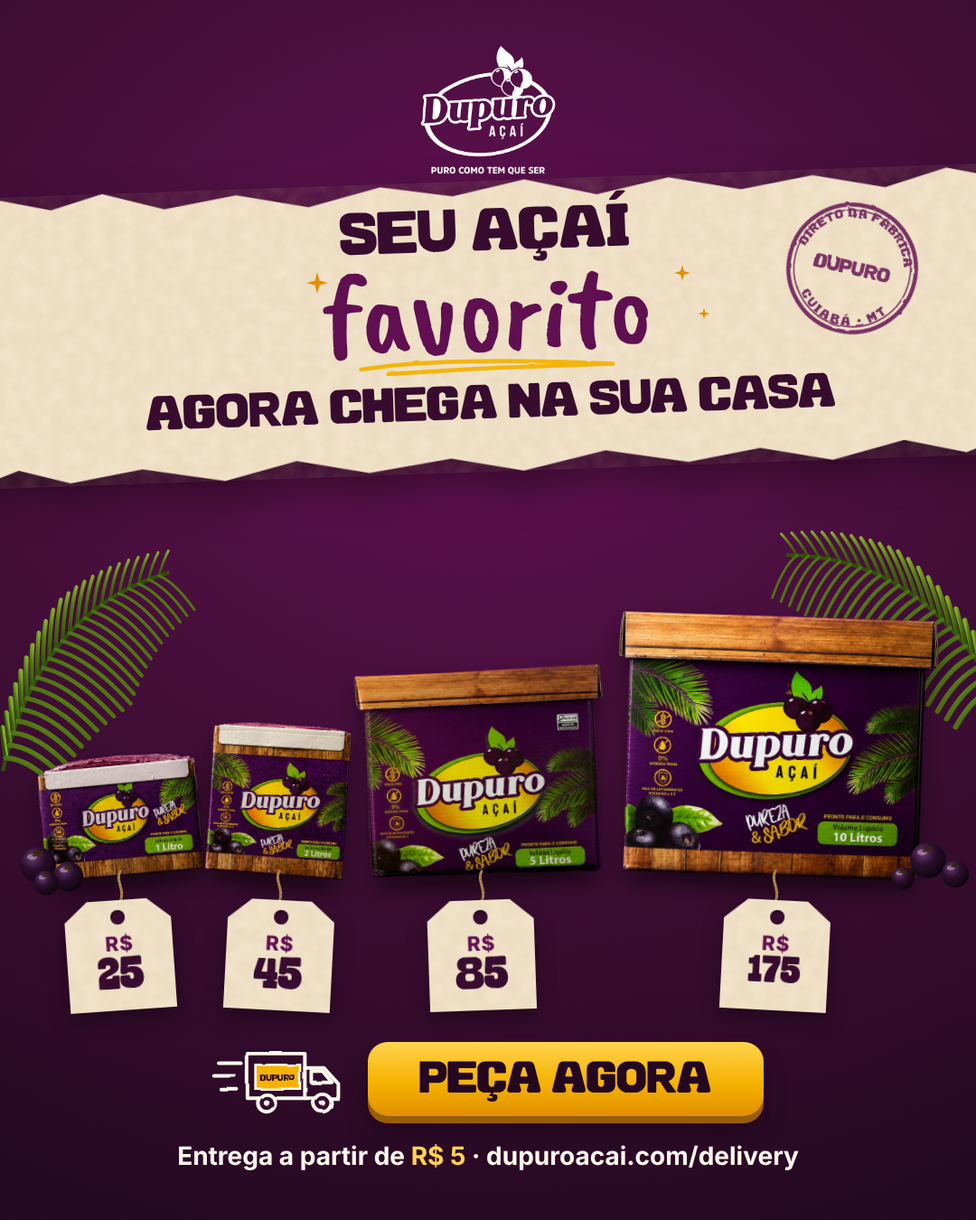
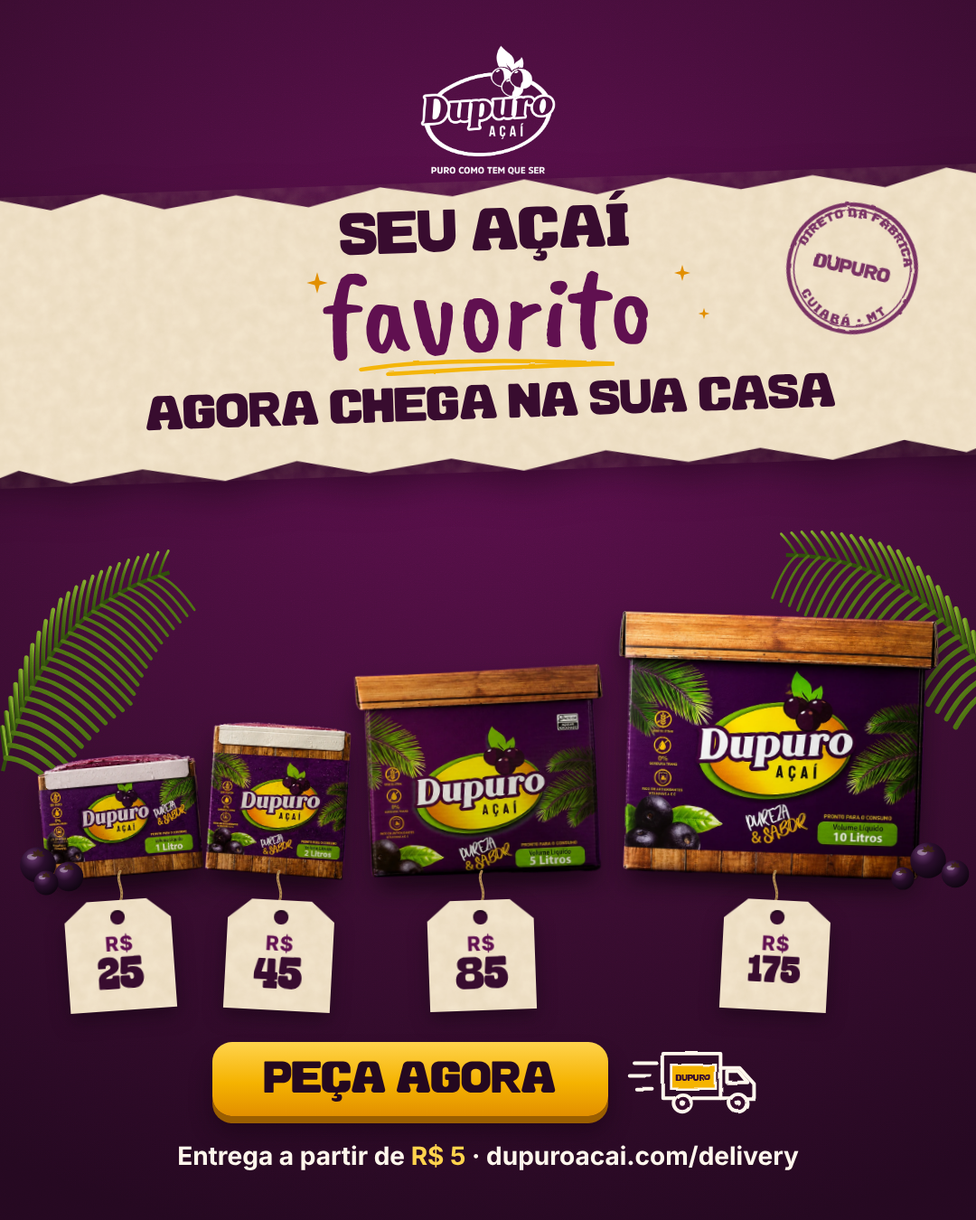
Anúncio v2: caminhãozinho à direita do 'Peça agora' (pediu, o caminhão sai)
Claude-Session: https://claude.ai/code/session_01FD3K2dUiQKyTzg2suxj9tU

Changed region(s): [[0.2139, 0.84, 0.7944, 0.9333]]

diff --git a/marketing/anuncios/delivery-v2/story.html b/marketing/anuncios/delivery-v2/story.html
@@ -20,7 +20,7 @@
  </g></svg>
 <svg class="folha" style="left:-30px;top:880px;width:340px;height:340px;transform:rotate(-8deg) scaleX(1)" viewBox="-20 -20 300 300"><defs><linearGradient id="gf" x1="0" y1="1" x2="1" y2="0"><stop offset="0" stop-color="#2F4A0C"/><stop offset=".55" stop-color="#4D7012"/><stop offset="1" stop-color="#7FA82B"/></linearGradient></defs><path d="M0,200 Q60,40 200,20" stroke="#2F4A0C" stroke-width="4" fill="none"/><path d="M5.1,186.9 Q5.5,166.6 5.8,155.4" stroke="url(#gf)" stroke-width="5.4" fill="none" stroke-linecap="round"/><path d="M5.1,186.9 Q27.8,191.5 50.5,221.2" stroke="url(#gf)" stroke-width="5.4" fill="none" stroke-linecap="round"/><path d="M10.6,174.3 Q11.3,152.4 12.1,140.7" stroke="url(#gf)" stroke-width="5.2" fill="none" stroke-linecap="round"/><path d="M10.6,174.3 Q34.6,179.9 58.7,211.5" stroke="url(#gf)" stroke-width="5.2" fill="none" stroke-linecap="round"/><path d="M16.2,162.2 Q17.4,138.7 18.6,126.5" stroke="url(#gf)" stroke-width="5.1" fill="none" stroke-linecap="round"/><path d="M16.2,162.2 Q41.6,168.7 67.0,202.5" stroke="url(#gf)" stroke-width="5.1" fill="none" stroke-linecap="round"/><path d="M22.2,150.6 Q23.9,125.5 25.6,112.8" stroke="url(#gf)" stroke-width="5.0" fill="none" stroke-linecap="round"/><path d="M22.2,150.6 Q48.9,158.1 75.6,194.0" stroke="url(#gf)" stroke-width="5.0" fill="none" stroke-linecap="round"/><path d="M28.5,139.4 Q30.7,112.8 32.9,99.7" stroke="url(#gf)" stroke-width="4.9" fill="none" stroke-linecap="round"/><path d="M28.5,139.4 Q56.5,148.0 84.5,186.0" stroke="url(#gf)" stroke-width="4.9" fill="none" stroke-linecap="round"/><path d="M35.0,128.8 Q37.8,100.6 40.6,87.0" stroke="url(#gf)" stroke-width="4.8" fill="none" stroke-linecap="round"/><path d="M35.0,128.8 Q64.3,138.4 93.5,178.7" stroke="url(#gf)" stroke-width="4.8" fill="none" stroke-linecap="round"/><path d="M41.8,118.6 Q45.3,88.8 48.7,74.9" stroke="url(#gf)" stroke-width="4.6" fill="none" stroke-linecap="round"/><path d="M41.8,118.6 Q72.3,129.4 102.8,171.9" stroke="url(#gf)" stroke-width="4.6" fill="none" stroke-linecap="round"/><path d="M48.9,108.9 Q53.0,77.6 57.1,63.2" stroke="url(#gf)" stroke-width="4.5" fill="none" stroke-linecap="round"/><path d="M48.9,108.9 Q80.6,120.8 112.4,165.6" stroke="url(#gf)" stroke-width="4.5" fill="none" stroke-linecap="round"/><path d="M56.2,99.7 Q61.1,66.9 65.9,52.1" stroke="url(#gf)" stroke-width="4.4" fill="none" stroke-linecap="round"/><path d="M56.2,99.7 Q89.2,112.8 122.1,159.9" stroke="url(#gf)" stroke-width="4.4" fill="none" stroke-linecap="round"/><path d="M63.9,91.0 Q69.5,56.7 75.1,41.5" stroke="url(#gf)" stroke-width="4.2" fill="none" stroke-linecap="round"/><path d="M63.9,91.0 Q98.0,105.3 132.0,154.8" stroke="url(#gf)" stroke-width="4.2" fill="none" stroke-linecap="round"/><path d="M71.8,82.7 Q78.1,47.6 84.4,32.2" stroke="url(#gf)" stroke-width="4.1" fill="none" stroke-linecap="round"/><path d="M71.8,82.7 Q106.5,98.1 141.1,149.2" stroke="url(#gf)" stroke-width="4.1" fill="none" stroke-linecap="round"/><path d="M80.0,75.0 Q86.6,41.5 93.2,26.7" stroke="url(#gf)" stroke-width="4.0" fill="none" stroke-linecap="round"/><path d="M80.0,75.0 Q113.0,90.0 145.9,139.7" stroke="url(#gf)" stroke-width="4.0" fill="none" stroke-linecap="round"/><path d="M88.5,67.7 Q95.3,35.9 102.2,21.6" stroke="url(#gf)" stroke-width="3.9" fill="none" stroke-linecap="round"/><path d="M88.5,67.7 Q119.8,82.4 151.1,130.7" stroke="url(#gf)" stroke-width="3.9" fill="none" stroke-linecap="round"/><path d="M97.2,61.0 Q104.3,30.8 111.3,17.1" stroke="url(#gf)" stroke-width="3.8" fill="none" stroke-linecap="round"/><path d="M97.2,61.0 Q126.9,75.3 156.6,122.0" stroke="url(#gf)" stroke-width="3.8" fill="none" stroke-linecap="round"/><path d="M106.2,54.7 Q113.4,26.2 120.6,13.0" stroke="url(#gf)" stroke-width="3.6" fill="none" stroke-linecap="round"/><path d="M106.2,54.7 Q134.3,68.6 162.4,113.7" stroke="url(#gf)" stroke-width="3.6" fill="none" stroke-linecap="round"/><path d="M115.6,48.9 Q122.9,22.1 130.2,9.4" stroke="url(#gf)" stroke-width="3.5" fill="none" stroke-linecap="round"/><path d="M115.6,48.9 Q142.0,62.3 168.5,105.8" stroke="url(#gf)" stroke-width="3.5" fill="none" stroke-linecap="round"/><path d="M125.1,43.6 Q132.5,18.4 139.9,6.3" stroke="url(#gf)" stroke-width="3.4" fill="none" stroke-linecap="round"/><path d="M125.1,43.6 Q150.0,56.5 174.9,98.4" stroke="url(#gf)" stroke-width="3.4" fill="none" stroke-linecap="round"/><path d="M135.0,38.8 Q142.4,15.3 149.7,3.7" stroke="url(#gf)" stroke-width="3.2" fill="none" stroke-linecap="round"/><path d="M135.0,38.8 Q158.3,51.1 181.6,91.3" stroke="url(#gf)" stroke-width="3.2" fill="none" stroke-linecap="round"/><path d="M145.1,34.4 Q152.5,12.6 159.8,1.5" stroke="url(#gf)" stroke-width="3.1" fill="none" stroke-linecap="round"/><path d="M145.1,34.4 Q166.9,46.1 188.7,84.6" stroke="url(#gf)" stroke-width="3.1" fill="none" stroke-linecap="round"/><path d="M155.6,30.6 Q162.8,10.4 170.0,-0.1" stroke="url(#gf)" stroke-width="3.0" fill="none" stroke-linecap="round"/><path d="M155.6,30.6 Q175.8,41.6 196.0,78.4" stroke="url(#gf)" stroke-width="3.0" fill="none" stroke-linecap="round"/><path d="M166.2,27.2 Q173.4,8.6 180.5,-1.4" stroke="url(#gf)" stroke-width="2.9" fill="none" stroke-linecap="round"/><path d="M166.2,27.2 Q185.0,37.6 203.8,72.5" stroke="url(#gf)" stroke-width="2.9" fill="none" stroke-linecap="round"/><path d="M177.2,24.3 Q184.2,7.4 191.1,-2.1" stroke="url(#gf)" stroke-width="2.8" fill="none" stroke-linecap="round"/><path d="M177.2,24.3 Q194.5,34.0 211.8,67.1" stroke="url(#gf)" stroke-width="2.8" fill="none" stroke-linecap="round"/><path d="M188.5,21.9 Q195.2,6.6 201.9,-2.4" stroke="url(#gf)" stroke-width="2.6" fill="none" stroke-linecap="round"/><path d="M188.5,21.9 Q204.3,30.8 220.2,62.0" stroke="url(#gf)" stroke-width="2.6" fill="none" stroke-linecap="round"/></svg><svg class="folha" style="left:780px;top:840px;width:340px;height:340px;transform:rotate(-8deg) scaleX(-1)" viewBox="-20 -20 300 300"><defs><linearGradient id="gf" x1="0" y1="1" x2="1" y2="0"><stop offset="0" stop-color="#2F4A0C"/><stop offset=".55" stop-color="#4D7012"/><stop offset="1" stop-color="#7FA82B"/></linearGradient></defs><path d="M0,200 Q60,40 200,20" stroke="#2F4A0C" stroke-width="4" fill="none"/><path d="M5.1,186.9 Q5.5,166.6 5.8,155.4" stroke="url(#gf)" stroke-width="5.4" fill="none" stroke-linecap="round"/><path d="M5.1,186.9 Q27.8,191.5 50.5,221.2" stroke="url(#gf)" stroke-width="5.4" fill="none" stroke-linecap="round"/><path d="M10.6,174.3 Q11.3,152.4 12.1,140.7" stroke="url(#gf)" stroke-width="5.2" fill="none" stroke-linecap="round"/><path d="M10.6,174.3 Q34.6,179.9 58.7,211.5" stroke="url(#gf)" stroke-width="5.2" fill="none" stroke-linecap="round"/><path d="M16.2,162.2 Q17.4,138.7 18.6,126.5" stroke="url(#gf)" stroke-width="5.1" fill="none" stroke-linecap="round"/><path d="M16.2,162.2 Q41.6,168.7 67.0,202.5" stroke="url(#gf)" stroke-width="5.1" fill="none" stroke-linecap="round"/><path d="M22.2,150.6 Q23.9,125.5 25.6,112.8" stroke="url(#gf)" stroke-width="5.0" fill="none" stroke-linecap="round"/><path d="M22.2,150.6 Q48.9,158.1 75.6,194.0" stroke="url(#gf)" stroke-width="5.0" fill="none" stroke-linecap="round"/><path d="M28.5,139.4 Q30.7,112.8 32.9,99.7" stroke="url(#gf)" stroke-width="4.9" fill="none" stroke-linecap="round"/><path d="M28.5,139.4 Q56.5,148.0 84.5,186.0" stroke="url(#gf)" stroke-width="4.9" fill="none" stroke-linecap="round"/><path d="M35.0,128.8 Q37.8,100.6 40.6,87.0" stroke="url(#gf)" stroke-width="4.8" fill="none" stroke-linecap="round"/><path d="M35.0,128.8 Q64.3,138.4 93.5,178.7" stroke="url(#gf)" stroke-width="4.8" fill="none" stroke-linecap="round"/><path d="M41.8,118.6 Q45.3,88.8 48.7,74.9" stroke="url(#gf)" stroke-width="4.6" fill="none" stroke-linecap="round"/><path d="M41.8,118.6 Q72.3,129.4 102.8,171.9" stroke="url(#gf)" stroke-width="4.6" fill="none" stroke-linecap="round"/><path d="M48.9,108.9 Q53.0,77.6 57.1,63.2" stroke="url(#gf)" stroke-width="4.5" fill="none" stroke-linecap="round"/><path d="M48.9,108.9 Q80.6,120.8 112.4,165.6" stroke="url(#gf)" stroke-width="4.5" fill="none" stroke-linecap="round"/><path d="M56.2,99.7 Q61.1,66.9 65.9,52.1" stroke="url(#gf)" stroke-width="4.4" fill="none" stroke-linecap="round"/><path d="M56.2,99.7 Q89.2,112.8 122.1,159.9" stroke="url(#gf)" stroke-width="4.4" fill="none" stroke-linecap="round"/><path d="M63.9,91.0 Q69.5,56.7 75.1,41.5" stroke="url(#gf)" stroke-width="4.2" fill="none" stroke-linecap="round"/><path d="M63.9,91.0 Q98.0,105.3 132.0,154.8" stroke="url(#gf)" stroke-width="4.2" fill="none" stroke-linecap="round"/><path d="M71.8,82.7 Q78.1,47.6 84.4,32.2" stroke="url(#gf)" stroke-width="4.1" fill="none" stroke-linecap="round"/><path d="M71.8,82.7 Q106.5,98.1 141.1,149.2" stroke="url(#gf)" stroke-width="4.1" fill="none" stroke-linecap="round"/><path d="M80.0,75.0 Q86.6,41.5 93.2,26.7" stroke="url(#gf)" stroke-width="4.0" fill="none" stroke-linecap="round"/><path d="M80.0,75.0 Q113.0,90.0 145.9,139.7" stroke="url(#gf)" stroke-width="4.0" fill="none" stroke-linecap="round"/><path d="M88.5,67.7 Q95.3,35.9 102.2,21.6" stroke="url(#gf)" stroke-width="3.9" fill="none" stroke-linecap="round"/><path d="M88.5,67.7 Q119.8,82.4 151.1,130.7" stroke="url(#gf)" stroke-width="3.9" fill="none" stroke-linecap="round"/><path d="M97.2,61.0 Q104.3,30.8 111.3,17.1" stroke="url(#gf)" stroke-width="3.8" fill="none" stroke-linecap="round"/><path d="M97.2,61.0 Q126.9,75.3 156.6,122.0" stroke="url(#gf)" stroke-width="3.8" fill="none" stroke-linecap="round"/><path d="M106.2,54.7 Q113.4,26.2 120.6,13.0" stroke="url(#gf)" stroke-width="3.6" fill="none" stroke-linecap="round"/><path d="M106.2,54.7 Q134.3,68.6 162.4,113.7" stroke="url(#gf)" stroke-width="3.6" fill="none" stroke-linecap="round"/><path d="M115.6,48.9 Q122.9,22.1 130.2,9.4" stroke="url(#gf)" stroke-width="3.5" fill="none" stroke-linecap="round"/><path d="M115.6,48.9 Q142.0,62.3 168.5,105.8" stroke="url(#gf)" stroke-width="3.5" fill="none" stroke-linecap="round"/><path d="M125.1,43.6 Q132.5,18.4 139.9,6.3" stroke="url(#gf)" stroke-width="3.4" fill="none" stroke-linecap="round"/><path d="M125.1,43.6 Q150.0,56.5 174.9,98.4" stroke="url(#gf)" stroke-width="3.4" fill="none" stroke-linecap="round"/><path d="M135.0,38.8 Q142.4,15.3 149.7,3.7" stroke="url(#gf)" stroke-width="3.2" fill="none" stroke-linecap="round"/><path d="M135.0,38.8 Q158.3,51.1 181.6,91.3" stroke="url(#gf)" stroke-width="3.2" fill="none" stroke-linecap="round"/><path d="M145.1,34.4 Q152.5,12.6 159.8,1.5" stroke="url(#gf)" stroke-width="3.1" fill="none" stroke-linecap="round"/><path d="M145.1,34.4 Q166.9,46.1 188.7,84.6" stroke="url(#gf)" stroke-width="3.1" fill="none" stroke-linecap="round"/><path d="M155.6,30.6 Q162.8,10.4 170.0,-0.1" stroke="url(#gf)" stroke-width="3.0" fill="none" stroke-linecap="round"/><path d="M155.6,30.6 Q175.8,41.6 196.0,78.4" stroke="url(#gf)" stroke-width="3.0" fill="none" stroke-linecap="round"/><path d="M166.2,27.2 Q173.4,8.6 180.5,-1.4" stroke="url(#gf)" stroke-width="2.9" fill="none" stroke-linecap="round"/><path d="M166.2,27.2 Q185.0,37.6 203.8,72.5" stroke="url(#gf)" stroke-width="2.9" fill="none" stroke-linecap="round"/><path d="M177.2,24.3 Q184.2,7.4 191.1,-2.1" stroke="url(#gf)" stroke-width="2.8" fill="none" stroke-linecap="round"/><path d="M177.2,24.3 Q194.5,34.0 211.8,67.1" stroke="url(#gf)" stroke-width="2.8" fill="none" stroke-linecap="round"/><path d="M188.5,21.9 Q195.2,6.6 201.9,-2.4" stroke="url(#gf)" stroke-width="2.6" fill="none" stroke-linecap="round"/><path d="M188.5,21.9 Q204.3,30.8 220.2,62.0" stroke="url(#gf)" stroke-width="2.6" fill="none" stroke-linecap="round"/></svg><svg class="fruto" style="left:20px;top:1215px;width:44px;height:44px" viewBox="0 0 40 40"><defs><radialGradient id="gb" cx=".35" cy=".3" r=".75"><stop offset="0" stop-color="#6B3A72"/><stop offset=".45" stop-color="#2A0E2C"/><stop offset="1" stop-color="#0E040F"/></radialGradient></defs><circle cx="20" cy="20" r="18" fill="url(#gb)"/><ellipse cx="14" cy="12" rx="5" ry="3" fill="#fff" opacity=".35"/><path d="M20,4 l2,3 l3,-1 l-1,3 l3,2 l-4,1 l-3,-1 l-3,1 l-4,-1 l3,-2 l-1,-3 l3,1 z" fill="#3B2410" opacity=".85"/></svg><svg class="fruto" style="left:58px;top:1232px;width:36px;height:36px" viewBox="0 0 40 40"><defs><radialGradient id="gb" cx=".35" cy=".3" r=".75"><stop offset="0" stop-color="#6B3A72"/><stop offset=".45" stop-color="#2A0E2C"/><stop offset="1" stop-color="#0E040F"/></radialGradient></defs><circle cx="20" cy="20" r="18" fill="url(#gb)"/><ellipse cx="14" cy="12" rx="5" ry="3" fill="#fff" opacity=".35"/><path d="M20,4 l2,3 l3,-1 l-1,3 l3,2 l-4,1 l-3,-1 l-3,1 l-4,-1 l3,-2 l-1,-3 l3,1 z" fill="#3B2410" opacity=".85"/></svg><svg class="fruto" style="left:36px;top:1242px;width:30px;height:30px" viewBox="0 0 40 40"><defs><radialGradient id="gb" cx=".35" cy=".3" r=".75"><stop offset="0" stop-color="#6B3A72"/><stop offset=".45" stop-color="#2A0E2C"/><stop offset="1" stop-color="#0E040F"/></radialGradient></defs><circle cx="20" cy="20" r="18" fill="url(#gb)"/><ellipse cx="14" cy="12" rx="5" ry="3" fill="#fff" opacity=".35"/><path d="M20,4 l2,3 l3,-1 l-1,3 l3,2 l-4,1 l-3,-1 l-3,1 l-4,-1 l3,-2 l-1,-3 l3,1 z" fill="#3B2410" opacity=".85"/></svg><svg class="fruto" style="left:1005px;top:1210px;width:44px;height:44px" viewBox="0 0 40 40"><defs><radialGradient id="gb" cx=".35" cy=".3" r=".75"><stop offset="0" stop-color="#6B3A72"/><stop offset=".45" stop-color="#2A0E2C"/><stop offset="1" stop-color="#0E040F"/></radialGradient></defs><circle cx="20" cy="20" r="18" fill="url(#gb)"/><ellipse cx="14" cy="12" rx="5" ry="3" fill="#fff" opacity=".35"/><path d="M20,4 l2,3 l3,-1 l-1,3 l3,2 l-4,1 l-3,-1 l-3,1 l-4,-1 l3,-2 l-1,-3 l3,1 z" fill="#3B2410" opacity=".85"/></svg><svg class="fruto" style="left:1040px;top:1230px;width:34px;height:34px" viewBox="0 0 40 40"><defs><radialGradient id="gb" cx=".35" cy=".3" r=".75"><stop offset="0" stop-color="#6B3A72"/><stop offset=".45" stop-color="#2A0E2C"/><stop offset="1" stop-color="#0E040F"/></radialGradient></defs><circle cx="20" cy="20" r="18" fill="url(#gb)"/><ellipse cx="14" cy="12" rx="5" ry="3" fill="#fff" opacity=".35"/><path d="M20,4 l2,3 l3,-1 l-1,3 l3,2 l-4,1 l-3,-1 l-3,1 l-4,-1 l3,-2 l-1,-3 l3,1 z" fill="#3B2410" opacity=".85"/></svg><svg class="fruto" style="left:985px;top:1238px;width:28px;height:28px" viewBox="0 0 40 40"><defs><radialGradient id="gb" cx=".35" cy=".3" r=".75"><stop offset="0" stop-color="#6B3A72"/><stop offset=".45" stop-color="#2A0E2C"/><stop offset="1" stop-color="#0E040F"/></radialGradient></defs><circle cx="20" cy="20" r="18" fill="url(#gb)"/><ellipse cx="14" cy="12" rx="5" ry="3" fill="#fff" opacity=".35"/><path d="M20,4 l2,3 l3,-1 l-1,3 l3,2 l-4,1 l-3,-1 l-3,1 l-4,-1 l3,-2 l-1,-3 l3,1 z" fill="#3B2410" opacity=".85"/></svg>
 <div class="fila"><div class="item i1"><div class="caixa"><img src="../briefing-delivery/material/caixa-1l-estudio-recorte.webp" alt="Caixa 1 litro"><div class="sombra"></div></div><svg class="barbante" viewBox="0 0 30 40" preserveAspectRatio="none"><path d="M15,0 C 9,12 21,24 15,40" stroke="#B08A55" stroke-width="3" fill="none" stroke-linecap="round"/><path d="M15,0 C 9,12 21,24 15,40" stroke="#7A5A30" stroke-width="1" stroke-dasharray="2 3" fill="none"/></svg><div class="etiqueta"><div class="corpo"></div><svg class="fibra2" xmlns="http://www.w3.org/2000/svg" preserveAspectRatio="none"><filter id="f1"><feTurbulence type="fractalNoise" baseFrequency="0.06" numOctaves="4" seed="5"/><feColorMatrix values="0 0 0 0 0.55  0 0 0 0 0.42  0 0 0 0 0.25  0 0 0 0.55 0"/></filter><rect width="100%" height="100%" filter="url(#f1)"/></svg><div class="furo"></div><div class="preco"><span class="rs">R$</span><span class="num">25</span></div></div></div><div class="item i2"><div class="caixa"><img src="../briefing-delivery/material/caixa-2l-estudio-recorte.webp" alt="Caixa 2 litros"><div class="sombra"></div></div><svg class="barbante" viewBox="0 0 30 40" preserveAspectRatio="none"><path d="M15,0 C 9,12 21,24 15,40" stroke="#B08A55" stroke-width="3" fill="none" stroke-linecap="round"/><path d="M15,0 C 9,12 21,24 15,40" stroke="#7A5A30" stroke-width="1" stroke-dasharray="2 3" fill="none"/></svg><div class="etiqueta"><div class="corpo"></div><svg class="fibra2" xmlns="http://www.w3.org/2000/svg" preserveAspectRatio="none"><filter id="f2"><feTurbulence type="fractalNoise" baseFrequency="0.06" numOctaves="4" seed="6"/><feColorMatrix values="0 0 0 0 0.55  0 0 0 0 0.42  0 0 0 0 0.25  0 0 0 0.55 0"/></filter><rect width="100%" height="100%" filter="url(#f2)"/></svg><div class="furo"></div><div class="preco"><span class="rs">R$</span><span class="num">45</span></div></div></div><div class="item i5"><div class="caixa"><img src="../briefing-delivery/material/caixa-5l-estudio-recorte.webp" alt="Caixa 5 litros"><div class="sombra"></div></div><svg class="barbante" viewBox="0 0 30 40" preserveAspectRatio="none"><path d="M15,0 C 9,12 21,24 15,40" stroke="#B08A55" stroke-width="3" fill="none" stroke-linecap="round"/><path d="M15,0 C 9,12 21,24 15,40" stroke="#7A5A30" stroke-width="1" stroke-dasharray="2 3" fill="none"/></svg><div class="etiqueta"><div class="corpo"></div><svg class="fibra2" xmlns="http://www.w3.org/2000/svg" preserveAspectRatio="none"><filter id="f5"><feTurbulence type="fractalNoise" baseFrequency="0.06" numOctaves="4" seed="9"/><feColorMatrix values="0 0 0 0 0.55  0 0 0 0 0.42  0 0 0 0 0.25  0 0 0 0.55 0"/></filter><rect width="100%" height="100%" filter="url(#f5)"/></svg><div class="furo"></div><div class="preco"><span class="rs">R$</span><span class="num">85</span></div></div></div><div class="item i10"><div class="caixa"><img src="../briefing-delivery/material/caixa-10l-estudio-recorte.webp" alt="Caixa 10 litros"><div class="sombra"></div></div><svg class="barbante" viewBox="0 0 30 40" preserveAspectRatio="none"><path d="M15,0 C 9,12 21,24 15,40" stroke="#B08A55" stroke-width="3" fill="none" stroke-linecap="round"/><path d="M15,0 C 9,12 21,24 15,40" stroke="#7A5A30" stroke-width="1" stroke-dasharray="2 3" fill="none"/></svg><div class="etiqueta"><div class="corpo"></div><svg class="fibra2" xmlns="http://www.w3.org/2000/svg" preserveAspectRatio="none"><filter id="f10"><feTurbulence type="fractalNoise" baseFrequency="0.06" numOctaves="4" seed="14"/><feColorMatrix values="0 0 0 0 0.55  0 0 0 0 0.42  0 0 0 0 0.25  0 0 0 0.55 0"/></filter><rect width="100%" height="100%" filter="url(#f10)"/></svg><div class="furo"></div><div class="preco"><span class="rs">R$</span><span class="num tres">175</span></div></div></div></div>
-<div class="rodape"><div class="linha-cta"><svg class="caminhao" viewBox="0 0 170 100" xmlns="http://www.w3.org/2000/svg"><defs><filter id="mao2"><feTurbulence type="fractalNoise" baseFrequency="0.035" numOctaves="2" seed="5" result="d"/><feDisplacementMap in="SourceGraphic" in2="d" scale="3.5"/></filter></defs>
+<div class="rodape"><div class="linha-cta"><span class="cta">Peça agora</span><svg class="caminhao" viewBox="0 0 170 100" xmlns="http://www.w3.org/2000/svg"><defs><filter id="mao2"><feTurbulence type="fractalNoise" baseFrequency="0.035" numOctaves="2" seed="5" result="d"/><feDisplacementMap in="SourceGraphic" in2="d" scale="3.5"/></filter></defs>
  <g filter="url(#mao2)" fill="none" stroke="#FFF7EC" stroke-width="4.5" stroke-linecap="round" stroke-linejoin="round">
   <path d="M8,30 h28 M2,46 h26 M10,62 h20"/>
   <path d="M44,18 h72 v56 h-72 z"/>
@@ -30,5 +30,5 @@
   <circle cx="68" cy="80" r="3.5" fill="#FFF7EC" stroke="none"/><circle cx="138" cy="80" r="3.5" fill="#FFF7EC" stroke="none"/>
  </g>
  <g filter="url(#mao2)"><path d="M54,32 h56 v30 h-56 z" fill="#F5B301" stroke="#FFF7EC" stroke-width="3"/>
- <text x="82" y="52" text-anchor="middle" font-family="Klinko" font-size="10.5" fill="#380C2F">DUPURO</text></g></svg><span class="cta">Peça agora</span></div><div class="info">Entrega a partir de <i>R$ 5</i> · dupuroacai.com/delivery</div></div>
+ <text x="82" y="52" text-anchor="middle" font-family="Klinko" font-size="10.5" fill="#380C2F">DUPURO</text></g></svg></div><div class="info">Entrega a partir de <i>R$ 5</i> · dupuroacai.com/delivery</div></div>
 </body></html>

diff --git a/marketing/anuncios/delivery-v2/feed.html b/marketing/anuncios/delivery-v2/feed.html
@@ -20,7 +20,7 @@
  </g></svg>
 <svg class="folha" style="left:-30px;top:600px;width:320px;height:320px;transform:rotate(-8deg) scaleX(1)" viewBox="-20 -20 300 300"><defs><linearGradient id="gf" x1="0" y1="1" x2="1" y2="0"><stop offset="0" stop-color="#2F4A0C"/><stop offset=".55" stop-color="#4D7012"/><stop offset="1" stop-color="#7FA82B"/></linearGradient></defs><path d="M0,200 Q60,40 200,20" stroke="#2F4A0C" stroke-width="4" fill="none"/><path d="M5.1,186.9 Q5.5,166.6 5.8,155.4" stroke="url(#gf)" stroke-width="5.4" fill="none" stroke-linecap="round"/><path d="M5.1,186.9 Q27.8,191.5 50.5,221.2" stroke="url(#gf)" stroke-width="5.4" fill="none" stroke-linecap="round"/><path d="M10.6,174.3 Q11.3,152.4 12.1,140.7" stroke="url(#gf)" stroke-width="5.2" fill="none" stroke-linecap="round"/><path d="M10.6,174.3 Q34.6,179.9 58.7,211.5" stroke="url(#gf)" stroke-width="5.2" fill="none" stroke-linecap="round"/><path d="M16.2,162.2 Q17.4,138.7 18.6,126.5" stroke="url(#gf)" stroke-width="5.1" fill="none" stroke-linecap="round"/><path d="M16.2,162.2 Q41.6,168.7 67.0,202.5" stroke="url(#gf)" stroke-width="5.1" fill="none" stroke-linecap="round"/><path d="M22.2,150.6 Q23.9,125.5 25.6,112.8" stroke="url(#gf)" stroke-width="5.0" fill="none" stroke-linecap="round"/><path d="M22.2,150.6 Q48.9,158.1 75.6,194.0" stroke="url(#gf)" stroke-width="5.0" fill="none" stroke-linecap="round"/><path d="M28.5,139.4 Q30.7,112.8 32.9,99.7" stroke="url(#gf)" stroke-width="4.9" fill="none" stroke-linecap="round"/><path d="M28.5,139.4 Q56.5,148.0 84.5,186.0" stroke="url(#gf)" stroke-width="4.9" fill="none" stroke-linecap="round"/><path d="M35.0,128.8 Q37.8,100.6 40.6,87.0" stroke="url(#gf)" stroke-width="4.8" fill="none" stroke-linecap="round"/><path d="M35.0,128.8 Q64.3,138.4 93.5,178.7" stroke="url(#gf)" stroke-width="4.8" fill="none" stroke-linecap="round"/><path d="M41.8,118.6 Q45.3,88.8 48.7,74.9" stroke="url(#gf)" stroke-width="4.6" fill="none" stroke-linecap="round"/><path d="M41.8,118.6 Q72.3,129.4 102.8,171.9" stroke="url(#gf)" stroke-width="4.6" fill="none" stroke-linecap="round"/><path d="M48.9,108.9 Q53.0,77.6 57.1,63.2" stroke="url(#gf)" stroke-width="4.5" fill="none" stroke-linecap="round"/><path d="M48.9,108.9 Q80.6,120.8 112.4,165.6" stroke="url(#gf)" stroke-width="4.5" fill="none" stroke-linecap="round"/><path d="M56.2,99.7 Q61.1,66.9 65.9,52.1" stroke="url(#gf)" stroke-width="4.4" fill="none" stroke-linecap="round"/><path d="M56.2,99.7 Q89.2,112.8 122.1,159.9" stroke="url(#gf)" stroke-width="4.4" fill="none" stroke-linecap="round"/><path d="M63.9,91.0 Q69.5,56.7 75.1,41.5" stroke="url(#gf)" stroke-width="4.2" fill="none" stroke-linecap="round"/><path d="M63.9,91.0 Q98.0,105.3 132.0,154.8" stroke="url(#gf)" stroke-width="4.2" fill="none" stroke-linecap="round"/><path d="M71.8,82.7 Q78.1,47.6 84.4,32.2" stroke="url(#gf)" stroke-width="4.1" fill="none" stroke-linecap="round"/><path d="M71.8,82.7 Q106.5,98.1 141.1,149.2" stroke="url(#gf)" stroke-width="4.1" fill="none" stroke-linecap="round"/><path d="M80.0,75.0 Q86.6,41.5 93.2,26.7" stroke="url(#gf)" stroke-width="4.0" fill="none" stroke-linecap="round"/><path d="M80.0,75.0 Q113.0,90.0 145.9,139.7" stroke="url(#gf)" stroke-width="4.0" fill="none" stroke-linecap="round"/><path d="M88.5,67.7 Q95.3,35.9 102.2,21.6" stroke="url(#gf)" stroke-width="3.9" fill="none" stroke-linecap="round"/><path d="M88.5,67.7 Q119.8,82.4 151.1,130.7" stroke="url(#gf)" stroke-width="3.9" fill="none" stroke-linecap="round"/><path d="M97.2,61.0 Q104.3,30.8 111.3,17.1" stroke="url(#gf)" stroke-width="3.8" fill="none" stroke-linecap="round"/><path d="M97.2,61.0 Q126.9,75.3 156.6,122.0" stroke="url(#gf)" stroke-width="3.8" fill="none" stroke-linecap="round"/><path d="M106.2,54.7 Q113.4,26.2 120.6,13.0" stroke="url(#gf)" stroke-width="3.6" fill="none" stroke-linecap="round"/><path d="M106.2,54.7 Q134.3,68.6 162.4,113.7" stroke="url(#gf)" stroke-width="3.6" fill="none" stroke-linecap="round"/><path d="M115.6,48.9 Q122.9,22.1 130.2,9.4" stroke="url(#gf)" stroke-width="3.5" fill="none" stroke-linecap="round"/><path d="M115.6,48.9 Q142.0,62.3 168.5,105.8" stroke="url(#gf)" stroke-width="3.5" fill="none" stroke-linecap="round"/><path d="M125.1,43.6 Q132.5,18.4 139.9,6.3" stroke="url(#gf)" stroke-width="3.4" fill="none" stroke-linecap="round"/><path d="M125.1,43.6 Q150.0,56.5 174.9,98.4" stroke="url(#gf)" stroke-width="3.4" fill="none" stroke-linecap="round"/><path d="M135.0,38.8 Q142.4,15.3 149.7,3.7" stroke="url(#gf)" stroke-width="3.2" fill="none" stroke-linecap="round"/><path d="M135.0,38.8 Q158.3,51.1 181.6,91.3" stroke="url(#gf)" stroke-width="3.2" fill="none" stroke-linecap="round"/><path d="M145.1,34.4 Q152.5,12.6 159.8,1.5" stroke="url(#gf)" stroke-width="3.1" fill="none" stroke-linecap="round"/><path d="M145.1,34.4 Q166.9,46.1 188.7,84.6" stroke="url(#gf)" stroke-width="3.1" fill="none" stroke-linecap="round"/><path d="M155.6,30.6 Q162.8,10.4 170.0,-0.1" stroke="url(#gf)" stroke-width="3.0" fill="none" stroke-linecap="round"/><path d="M155.6,30.6 Q175.8,41.6 196.0,78.4" stroke="url(#gf)" stroke-width="3.0" fill="none" stroke-linecap="round"/><path d="M166.2,27.2 Q173.4,8.6 180.5,-1.4" stroke="url(#gf)" stroke-width="2.9" fill="none" stroke-linecap="round"/><path d="M166.2,27.2 Q185.0,37.6 203.8,72.5" stroke="url(#gf)" stroke-width="2.9" fill="none" stroke-linecap="round"/><path d="M177.2,24.3 Q184.2,7.4 191.1,-2.1" stroke="url(#gf)" stroke-width="2.8" fill="none" stroke-linecap="round"/><path d="M177.2,24.3 Q194.5,34.0 211.8,67.1" stroke="url(#gf)" stroke-width="2.8" fill="none" stroke-linecap="round"/><path d="M188.5,21.9 Q195.2,6.6 201.9,-2.4" stroke="url(#gf)" stroke-width="2.6" fill="none" stroke-linecap="round"/><path d="M188.5,21.9 Q204.3,30.8 220.2,62.0" stroke="url(#gf)" stroke-width="2.6" fill="none" stroke-linecap="round"/></svg><svg class="folha" style="left:800px;top:560px;width:320px;height:320px;transform:rotate(-8deg) scaleX(-1)" viewBox="-20 -20 300 300"><defs><linearGradient id="gf" x1="0" y1="1" x2="1" y2="0"><stop offset="0" stop-color="#2F4A0C"/><stop offset=".55" stop-color="#4D7012"/><stop offset="1" stop-color="#7FA82B"/></linearGradient></defs><path d="M0,200 Q60,40 200,20" stroke="#2F4A0C" stroke-width="4" fill="none"/><path d="M5.1,186.9 Q5.5,166.6 5.8,155.4" stroke="url(#gf)" stroke-width="5.4" fill="none" stroke-linecap="round"/><path d="M5.1,186.9 Q27.8,191.5 50.5,221.2" stroke="url(#gf)" stroke-width="5.4" fill="none" stroke-linecap="round"/><path d="M10.6,174.3 Q11.3,152.4 12.1,140.7" stroke="url(#gf)" stroke-width="5.2" fill="none" stroke-linecap="round"/><path d="M10.6,174.3 Q34.6,179.9 58.7,211.5" stroke="url(#gf)" stroke-width="5.2" fill="none" stroke-linecap="round"/><path d="M16.2,162.2 Q17.4,138.7 18.6,126.5" stroke="url(#gf)" stroke-width="5.1" fill="none" stroke-linecap="round"/><path d="M16.2,162.2 Q41.6,168.7 67.0,202.5" stroke="url(#gf)" stroke-width="5.1" fill="none" stroke-linecap="round"/><path d="M22.2,150.6 Q23.9,125.5 25.6,112.8" stroke="url(#gf)" stroke-width="5.0" fill="none" stroke-linecap="round"/><path d="M22.2,150.6 Q48.9,158.1 75.6,194.0" stroke="url(#gf)" stroke-width="5.0" fill="none" stroke-linecap="round"/><path d="M28.5,139.4 Q30.7,112.8 32.9,99.7" stroke="url(#gf)" stroke-width="4.9" fill="none" stroke-linecap="round"/><path d="M28.5,139.4 Q56.5,148.0 84.5,186.0" stroke="url(#gf)" stroke-width="4.9" fill="none" stroke-linecap="round"/><path d="M35.0,128.8 Q37.8,100.6 40.6,87.0" stroke="url(#gf)" stroke-width="4.8" fill="none" stroke-linecap="round"/><path d="M35.0,128.8 Q64.3,138.4 93.5,178.7" stroke="url(#gf)" stroke-width="4.8" fill="none" stroke-linecap="round"/><path d="M41.8,118.6 Q45.3,88.8 48.7,74.9" stroke="url(#gf)" stroke-width="4.6" fill="none" stroke-linecap="round"/><path d="M41.8,118.6 Q72.3,129.4 102.8,171.9" stroke="url(#gf)" stroke-width="4.6" fill="none" stroke-linecap="round"/><path d="M48.9,108.9 Q53.0,77.6 57.1,63.2" stroke="url(#gf)" stroke-width="4.5" fill="none" stroke-linecap="round"/><path d="M48.9,108.9 Q80.6,120.8 112.4,165.6" stroke="url(#gf)" stroke-width="4.5" fill="none" stroke-linecap="round"/><path d="M56.2,99.7 Q61.1,66.9 65.9,52.1" stroke="url(#gf)" stroke-width="4.4" fill="none" stroke-linecap="round"/><path d="M56.2,99.7 Q89.2,112.8 122.1,159.9" stroke="url(#gf)" stroke-width="4.4" fill="none" stroke-linecap="round"/><path d="M63.9,91.0 Q69.5,56.7 75.1,41.5" stroke="url(#gf)" stroke-width="4.2" fill="none" stroke-linecap="round"/><path d="M63.9,91.0 Q98.0,105.3 132.0,154.8" stroke="url(#gf)" stroke-width="4.2" fill="none" stroke-linecap="round"/><path d="M71.8,82.7 Q78.1,47.6 84.4,32.2" stroke="url(#gf)" stroke-width="4.1" fill="none" stroke-linecap="round"/><path d="M71.8,82.7 Q106.5,98.1 141.1,149.2" stroke="url(#gf)" stroke-width="4.1" fill="none" stroke-linecap="round"/><path d="M80.0,75.0 Q86.6,41.5 93.2,26.7" stroke="url(#gf)" stroke-width="4.0" fill="none" stroke-linecap="round"/><path d="M80.0,75.0 Q113.0,90.0 145.9,139.7" stroke="url(#gf)" stroke-width="4.0" fill="none" stroke-linecap="round"/><path d="M88.5,67.7 Q95.3,35.9 102.2,21.6" stroke="url(#gf)" stroke-width="3.9" fill="none" stroke-linecap="round"/><path d="M88.5,67.7 Q119.8,82.4 151.1,130.7" stroke="url(#gf)" stroke-width="3.9" fill="none" stroke-linecap="round"/><path d="M97.2,61.0 Q104.3,30.8 111.3,17.1" stroke="url(#gf)" stroke-width="3.8" fill="none" stroke-linecap="round"/><path d="M97.2,61.0 Q126.9,75.3 156.6,122.0" stroke="url(#gf)" stroke-width="3.8" fill="none" stroke-linecap="round"/><path d="M106.2,54.7 Q113.4,26.2 120.6,13.0" stroke="url(#gf)" stroke-width="3.6" fill="none" stroke-linecap="round"/><path d="M106.2,54.7 Q134.3,68.6 162.4,113.7" stroke="url(#gf)" stroke-width="3.6" fill="none" stroke-linecap="round"/><path d="M115.6,48.9 Q122.9,22.1 130.2,9.4" stroke="url(#gf)" stroke-width="3.5" fill="none" stroke-linecap="round"/><path d="M115.6,48.9 Q142.0,62.3 168.5,105.8" stroke="url(#gf)" stroke-width="3.5" fill="none" stroke-linecap="round"/><path d="M125.1,43.6 Q132.5,18.4 139.9,6.3" stroke="url(#gf)" stroke-width="3.4" fill="none" stroke-linecap="round"/><path d="M125.1,43.6 Q150.0,56.5 174.9,98.4" stroke="url(#gf)" stroke-width="3.4" fill="none" stroke-linecap="round"/><path d="M135.0,38.8 Q142.4,15.3 149.7,3.7" stroke="url(#gf)" stroke-width="3.2" fill="none" stroke-linecap="round"/><path d="M135.0,38.8 Q158.3,51.1 181.6,91.3" stroke="url(#gf)" stroke-width="3.2" fill="none" stroke-linecap="round"/><path d="M145.1,34.4 Q152.5,12.6 159.8,1.5" stroke="url(#gf)" stroke-width="3.1" fill="none" stroke-linecap="round"/><path d="M145.1,34.4 Q166.9,46.1 188.7,84.6" stroke="url(#gf)" stroke-width="3.1" fill="none" stroke-linecap="round"/><path d="M155.6,30.6 Q162.8,10.4 170.0,-0.1" stroke="url(#gf)" stroke-width="3.0" fill="none" stroke-linecap="round"/><path d="M155.6,30.6 Q175.8,41.6 196.0,78.4" stroke="url(#gf)" stroke-width="3.0" fill="none" stroke-linecap="round"/><path d="M166.2,27.2 Q173.4,8.6 180.5,-1.4" stroke="url(#gf)" stroke-width="2.9" fill="none" stroke-linecap="round"/><path d="M166.2,27.2 Q185.0,37.6 203.8,72.5" stroke="url(#gf)" stroke-width="2.9" fill="none" stroke-linecap="round"/><path d="M177.2,24.3 Q184.2,7.4 191.1,-2.1" stroke="url(#gf)" stroke-width="2.8" fill="none" stroke-linecap="round"/><path d="M177.2,24.3 Q194.5,34.0 211.8,67.1" stroke="url(#gf)" stroke-width="2.8" fill="none" stroke-linecap="round"/><path d="M188.5,21.9 Q195.2,6.6 201.9,-2.4" stroke="url(#gf)" stroke-width="2.6" fill="none" stroke-linecap="round"/><path d="M188.5,21.9 Q204.3,30.8 220.2,62.0" stroke="url(#gf)" stroke-width="2.6" fill="none" stroke-linecap="round"/></svg><svg class="fruto" style="left:20px;top:935px;width:44px;height:44px" viewBox="0 0 40 40"><defs><radialGradient id="gb" cx=".35" cy=".3" r=".75"><stop offset="0" stop-color="#6B3A72"/><stop offset=".45" stop-color="#2A0E2C"/><stop offset="1" stop-color="#0E040F"/></radialGradient></defs><circle cx="20" cy="20" r="18" fill="url(#gb)"/><ellipse cx="14" cy="12" rx="5" ry="3" fill="#fff" opacity=".35"/><path d="M20,4 l2,3 l3,-1 l-1,3 l3,2 l-4,1 l-3,-1 l-3,1 l-4,-1 l3,-2 l-1,-3 l3,1 z" fill="#3B2410" opacity=".85"/></svg><svg class="fruto" style="left:58px;top:952px;width:36px;height:36px" viewBox="0 0 40 40"><defs><radialGradient id="gb" cx=".35" cy=".3" r=".75"><stop offset="0" stop-color="#6B3A72"/><stop offset=".45" stop-color="#2A0E2C"/><stop offset="1" stop-color="#0E040F"/></radialGradient></defs><circle cx="20" cy="20" r="18" fill="url(#gb)"/><ellipse cx="14" cy="12" rx="5" ry="3" fill="#fff" opacity=".35"/><path d="M20,4 l2,3 l3,-1 l-1,3 l3,2 l-4,1 l-3,-1 l-3,1 l-4,-1 l3,-2 l-1,-3 l3,1 z" fill="#3B2410" opacity=".85"/></svg><svg class="fruto" style="left:36px;top:962px;width:30px;height:30px" viewBox="0 0 40 40"><defs><radialGradient id="gb" cx=".35" cy=".3" r=".75"><stop offset="0" stop-color="#6B3A72"/><stop offset=".45" stop-color="#2A0E2C"/><stop offset="1" stop-color="#0E040F"/></radialGradient></defs><circle cx="20" cy="20" r="18" fill="url(#gb)"/><ellipse cx="14" cy="12" rx="5" ry="3" fill="#fff" opacity=".35"/><path d="M20,4 l2,3 l3,-1 l-1,3 l3,2 l-4,1 l-3,-1 l-3,1 l-4,-1 l3,-2 l-1,-3 l3,1 z" fill="#3B2410" opacity=".85"/></svg><svg class="fruto" style="left:1005px;top:930px;width:44px;height:44px" viewBox="0 0 40 40"><defs><radialGradient id="gb" cx=".35" cy=".3" r=".75"><stop offset="0" stop-color="#6B3A72"/><stop offset=".45" stop-color="#2A0E2C"/><stop offset="1" stop-color="#0E040F"/></radialGradient></defs><circle cx="20" cy="20" r="18" fill="url(#gb)"/><ellipse cx="14" cy="12" rx="5" ry="3" fill="#fff" opacity=".35"/><path d="M20,4 l2,3 l3,-1 l-1,3 l3,2 l-4,1 l-3,-1 l-3,1 l-4,-1 l3,-2 l-1,-3 l3,1 z" fill="#3B2410" opacity=".85"/></svg><svg class="fruto" style="left:1040px;top:950px;width:34px;height:34px" viewBox="0 0 40 40"><defs><radialGradient id="gb" cx=".35" cy=".3" r=".75"><stop offset="0" stop-color="#6B3A72"/><stop offset=".45" stop-color="#2A0E2C"/><stop offset="1" stop-color="#0E040F"/></radialGradient></defs><circle cx="20" cy="20" r="18" fill="url(#gb)"/><ellipse cx="14" cy="12" rx="5" ry="3" fill="#fff" opacity=".35"/><path d="M20,4 l2,3 l3,-1 l-1,3 l3,2 l-4,1 l-3,-1 l-3,1 l-4,-1 l3,-2 l-1,-3 l3,1 z" fill="#3B2410" opacity=".85"/></svg><svg class="fruto" style="left:985px;top:958px;width:28px;height:28px" viewBox="0 0 40 40"><defs><radialGradient id="gb" cx=".35" cy=".3" r=".75"><stop offset="0" stop-color="#6B3A72"/><stop offset=".45" stop-color="#2A0E2C"/><stop offset="1" stop-color="#0E040F"/></radialGradient></defs><circle cx="20" cy="20" r="18" fill="url(#gb)"/><ellipse cx="14" cy="12" rx="5" ry="3" fill="#fff" opacity=".35"/><path d="M20,4 l2,3 l3,-1 l-1,3 l3,2 l-4,1 l-3,-1 l-3,1 l-4,-1 l3,-2 l-1,-3 l3,1 z" fill="#3B2410" opacity=".85"/></svg>
 <div class="fila"><div class="item i1"><div class="caixa"><img src="../briefing-delivery/material/caixa-1l-estudio-recorte.webp" alt="Caixa 1 litro"><div class="sombra"></div></div><svg class="barbante" viewBox="0 0 30 40" preserveAspectRatio="none"><path d="M15,0 C 9,12 21,24 15,40" stroke="#B08A55" stroke-width="3" fill="none" stroke-linecap="round"/><path d="M15,0 C 9,12 21,24 15,40" stroke="#7A5A30" stroke-width="1" stroke-dasharray="2 3" fill="none"/></svg><div class="etiqueta"><div class="corpo"></div><svg class="fibra2" xmlns="http://www.w3.org/2000/svg" preserveAspectRatio="none"><filter id="f1"><feTurbulence type="fractalNoise" baseFrequency="0.06" numOctaves="4" seed="5"/><feColorMatrix values="0 0 0 0 0.55  0 0 0 0 0.42  0 0 0 0 0.25  0 0 0 0.55 0"/></filter><rect width="100%" height="100%" filter="url(#f1)"/></svg><div class="furo"></div><div class="preco"><span class="rs">R$</span><span class="num">25</span></div></div></div><div class="item i2"><div class="caixa"><img src="../briefing-delivery/material/caixa-2l-estudio-recorte.webp" alt="Caixa 2 litros"><div class="sombra"></div></div><svg class="barbante" viewBox="0 0 30 40" preserveAspectRatio="none"><path d="M15,0 C 9,12 21,24 15,40" stroke="#B08A55" stroke-width="3" fill="none" stroke-linecap="round"/><path d="M15,0 C 9,12 21,24 15,40" stroke="#7A5A30" stroke-width="1" stroke-dasharray="2 3" fill="none"/></svg><div class="etiqueta"><div class="corpo"></div><svg class="fibra2" xmlns="http://www.w3.org/2000/svg" preserveAspectRatio="none"><filter id="f2"><feTurbulence type="fractalNoise" baseFrequency="0.06" numOctaves="4" seed="6"/><feColorMatrix values="0 0 0 0 0.55  0 0 0 0 0.42  0 0 0 0 0.25  0 0 0 0.55 0"/></filter><rect width="100%" height="100%" filter="url(#f2)"/></svg><div class="furo"></div><div class="preco"><span class="rs">R$</span><span class="num">45</span></div></div></div><div class="item i5"><div class="caixa"><img src="../briefing-delivery/material/caixa-5l-estudio-recorte.webp" alt="Caixa 5 litros"><div class="sombra"></div></div><svg class="barbante" viewBox="0 0 30 40" preserveAspectRatio="none"><path d="M15,0 C 9,12 21,24 15,40" stroke="#B08A55" stroke-width="3" fill="none" stroke-linecap="round"/><path d="M15,0 C 9,12 21,24 15,40" stroke="#7A5A30" stroke-width="1" stroke-dasharray="2 3" fill="none"/></svg><div class="etiqueta"><div class="corpo"></div><svg class="fibra2" xmlns="http://www.w3.org/2000/svg" preserveAspectRatio="none"><filter id="f5"><feTurbulence type="fractalNoise" baseFrequency="0.06" numOctaves="4" seed="9"/><feColorMatrix values="0 0 0 0 0.55  0 0 0 0 0.42  0 0 0 0 0.25  0 0 0 0.55 0"/></filter><rect width="100%" height="100%" filter="url(#f5)"/></svg><div class="furo"></div><div class="preco"><span class="rs">R$</span><span class="num">85</span></div></div></div><div class="item i10"><div class="caixa"><img src="../briefing-delivery/material/caixa-10l-estudio-recorte.webp" alt="Caixa 10 litros"><div class="sombra"></div></div><svg class="barbante" viewBox="0 0 30 40" preserveAspectRatio="none"><path d="M15,0 C 9,12 21,24 15,40" stroke="#B08A55" stroke-width="3" fill="none" stroke-linecap="round"/><path d="M15,0 C 9,12 21,24 15,40" stroke="#7A5A30" stroke-width="1" stroke-dasharray="2 3" fill="none"/></svg><div class="etiqueta"><div class="corpo"></div><svg class="fibra2" xmlns="http://www.w3.org/2000/svg" preserveAspectRatio="none"><filter id="f10"><feTurbulence type="fractalNoise" baseFrequency="0.06" numOctaves="4" seed="14"/><feColorMatrix values="0 0 0 0 0.55  0 0 0 0 0.42  0 0 0 0 0.25  0 0 0 0.55 0"/></filter><rect width="100%" height="100%" filter="url(#f10)"/></svg><div class="furo"></div><div class="preco"><span class="rs">R$</span><span class="num tres">175</span></div></div></div></div>
-<div class="rodape"><div class="linha-cta"><svg class="caminhao" viewBox="0 0 170 100" xmlns="http://www.w3.org/2000/svg"><defs><filter id="mao2"><feTurbulence type="fractalNoise" baseFrequency="0.035" numOctaves="2" seed="5" result="d"/><feDisplacementMap in="SourceGraphic" in2="d" scale="3.5"/></filter></defs>
+<div class="rodape"><div class="linha-cta"><span class="cta">Peça agora</span><svg class="caminhao" viewBox="0 0 170 100" xmlns="http://www.w3.org/2000/svg"><defs><filter id="mao2"><feTurbulence type="fractalNoise" baseFrequency="0.035" numOctaves="2" seed="5" result="d"/><feDisplacementMap in="SourceGraphic" in2="d" scale="3.5"/></filter></defs>
  <g filter="url(#mao2)" fill="none" stroke="#FFF7EC" stroke-width="4.5" stroke-linecap="round" stroke-linejoin="round">
   <path d="M8,30 h28 M2,46 h26 M10,62 h20"/>
   <path d="M44,18 h72 v56 h-72 z"/>
@@ -30,5 +30,5 @@
   <circle cx="68" cy="80" r="3.5" fill="#FFF7EC" stroke="none"/><circle cx="138" cy="80" r="3.5" fill="#FFF7EC" stroke="none"/>
  </g>
  <g filter="url(#mao2)"><path d="M54,32 h56 v30 h-56 z" fill="#F5B301" stroke="#FFF7EC" stroke-width="3"/>
- <text x="82" y="52" text-anchor="middle" font-family="Klinko" font-size="10.5" fill="#380C2F">DUPURO</text></g></svg><span class="cta">Peça agora</span></div><div class="info">Entrega a partir de <i>R$ 5</i> · dupuroacai.com/delivery</div></div>
+ <text x="82" y="52" text-anchor="middle" font-family="Klinko" font-size="10.5" fill="#380C2F">DUPURO</text></g></svg></div><div class="info">Entrega a partir de <i>R$ 5</i> · dupuroacai.com/delivery</div></div>
 </body></html>

diff --git a/marketing/anuncios/delivery-v2/gerar.py b/marketing/anuncios/delivery-v2/gerar.py
@@ -85,6 +85,6 @@ def pagina(fmt):
 {CARIMBO}
 {decor}
 <div class="fila">{itens}</div>
-<div class="rodape"><div class="linha-cta">{CAMINHAO}<span class="cta">Peça agora</span></div><div class="info">Entrega a partir de <i>R$ 5</i> · dupuroacai.com/delivery</div></div>
+<div class="rodape"><div class="linha-cta"><span class="cta">Peça agora</span>{CAMINHAO}</div><div class="info">Entrega a partir de <i>R$ 5</i> · dupuroacai.com/delivery</div></div>
 </body></html>'''
 for fmt in ['feed','story']: open(fmt+'.html','w').write(pagina(fmt))

diff --git a/marketing/anuncios/delivery-v2/README.md b/marketing/anuncios/delivery-v2/README.md
@@ -16,7 +16,7 @@ proporcionalmente menores (preço de relance 1,60).
 ## Ajustes do Kayo (2026-10-26): etiquetas, "simplório", caminhãozinho
 Etiquetas de papel amarradas com barbante, "R$" + número inteiros, todas na mesma linha (caixas
 tortas, etiquetas alinhadas); folhas de palmeira de açaí atrás das pontas da fileira; frutos de açaí;
-sublinhado de pincel em "favorito" + estrelinhas; caminhãozinho em traço à mão ao lado do "Peça agora".
+sublinhado de pincel em "favorito" + estrelinhas; caminhãozinho em traço à mão à DIREITA do "Peça agora", virado pra direita ("pediu, o caminhão sai" — pedido do Kayo).
 Agora gerado por `gerar.py` (HTML) → `render.sh` (PNG).
 
 | | artesanal | preço | etiquetas | riqueza (1=equilíbrio) | vontade | poluição | profissional |
